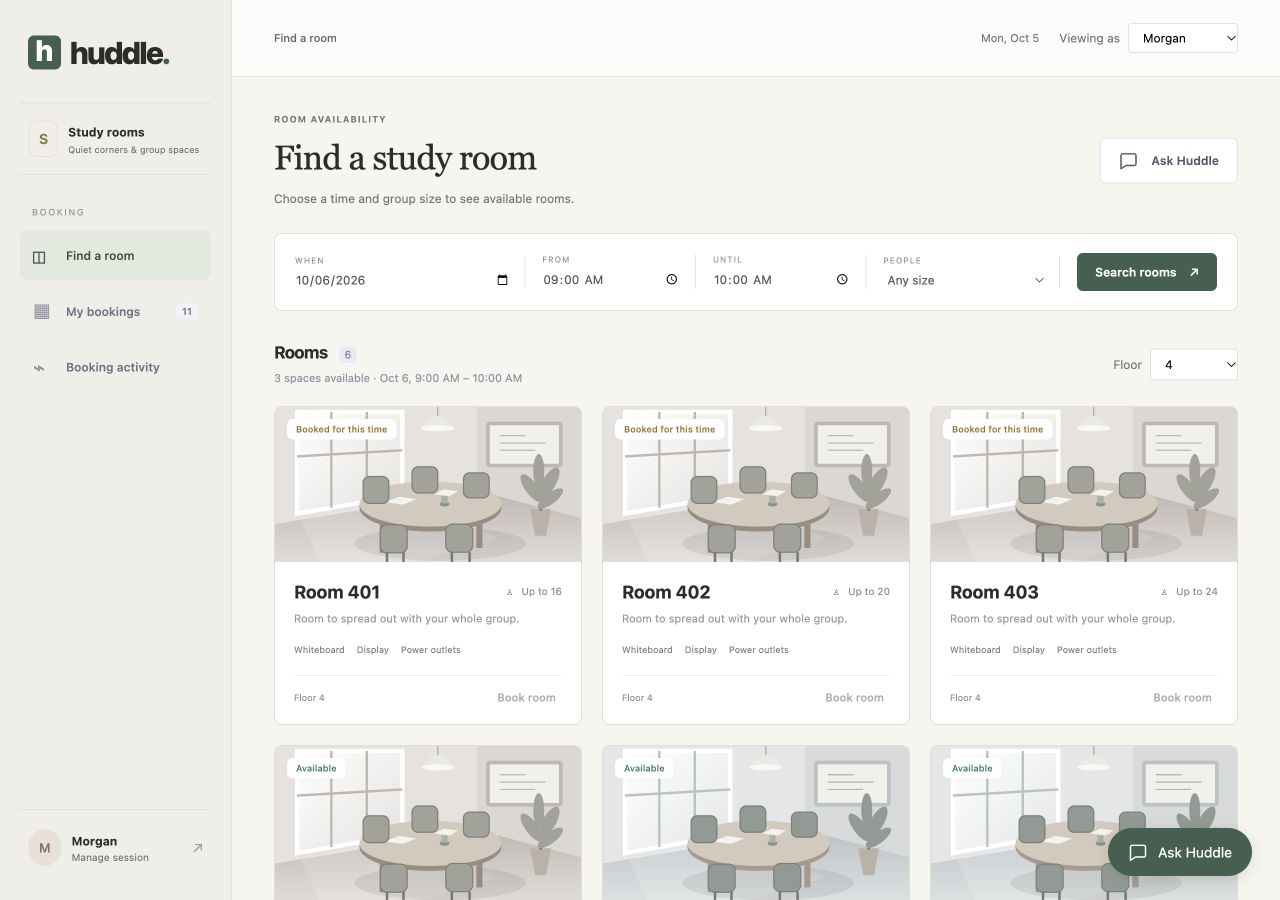
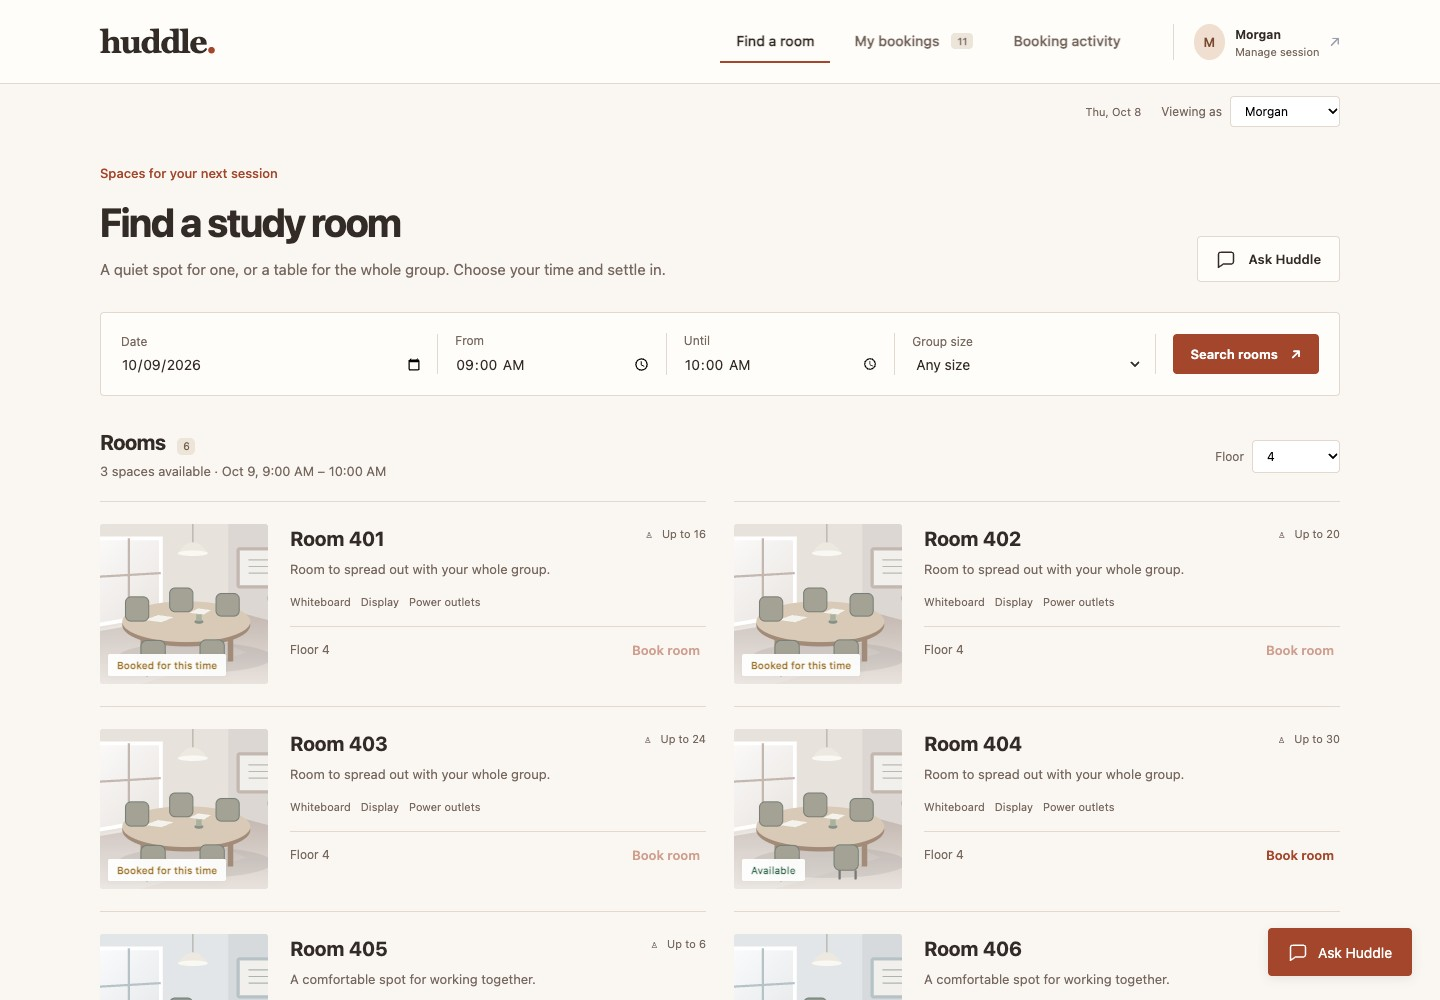
Redesign Huddle as a warm room directory and refresh UI walkthrough

diff --git a/app/static/styles.css b/app/static/styles.css
@@ -1571,3 +1571,29 @@ h1 { font-family: Georgia, serif; font-weight: 500; font-size: 34px; letter-spac
 .booking-technical p { line-height: 1.6; margin: 10px 0; }
 #calendar-details { margin-top: 24px; }
 #calendar-metrics { margin-top: 16px; grid-template-columns: repeat(2, minmax(0, 1fr)); }
+
+/* Room directory: a horizontal campus desk and compact, illustrated listings. */
+:root { --bg:#faf7f2; --ink:#332b26; --muted:#77685f; --purple:#a3462c; --line:#e2d8cd; --green:#386c50; }
+body { font-family: -apple-system, BlinkMacSystemFont, "Segoe UI", sans-serif; }
+h1,h2,h3,.brand { font-family: inherit; }
+h1 { font-size:40px; font-weight:700; letter-spacing:-1.6px; }
+.sidebar { position:static; width:100%; min-height:84px; flex-direction:row; align-items:center; gap:36px; padding:16px max(24px,calc((100vw - 1240px)/2)); border:0; border-bottom:1px solid var(--line); background:#fffdf9; }
+.brand { font-family:Georgia,serif; font-size:32px; font-weight:700; padding:0; letter-spacing:-1.5px; }
+.brand-mark { display:none; }.brand-dot { color:var(--purple); }
+.workspace,.nav-label { display:none; }
+.sidebar nav { display:flex; gap:8px; margin-left:auto; }
+.nav { width:auto; margin:0; padding:12px 16px; border-radius:0; font-size:14px; color:var(--muted); border-bottom:2px solid transparent; }
+.nav>span { display:none; }.nav.active { background:none; color:var(--ink); border-color:var(--purple); }.nav:hover { background:#f6efe5; }
+.sidebar-bottom { margin:0; }.profile { padding:0 0 0 20px; border:0; border-left:1px solid var(--line); }.profile>span:first-child { padding:10px; background:#f0dfd0; color:#794a30; }.profile small { font-size:11px; }
+main { margin-left:0; }.topbar { height:55px; padding:0 max(24px,calc((100vw - 1240px)/2)); background:var(--bg); border:0; }.breadcrumb { display:none; }.top-actions { margin-left:auto; }
+.content { max-width:1288px; padding:24px 24px 0; }.page-heading { margin-bottom:30px; align-items:flex-end; }.page-heading p:not(.eyebrow) { font-size:15px; max-width:590px; }.eyebrow { font-size:13px; font-weight:500; letter-spacing:0; text-transform:none; color:var(--purple); margin-bottom:12px; }
+.button { font-size:13px; border-radius:4px; padding:12px 18px; }.button.primary,.chat-launcher { background:var(--purple); }.primary:hover { background:#843721; }.secondary { border-color:var(--line); color:var(--ink); background:#fffdf9; }
+.search-bar { border:1px solid var(--line); border-radius:4px; background:#fffdf9; padding:20px; margin-bottom:34px; box-shadow:none; }.search-bar label>span { font-size:12px; letter-spacing:0; color:var(--muted); }.search-bar input,.search-bar select { font-size:14px; color:var(--ink); }
+.section-heading h2 { font-size:21px; }.section-heading h2 span { background:#eee5da; color:#75624e; }.section-heading p { font-size:13px; color:var(--muted); }
+.room-grid { grid-template-columns:repeat(2,minmax(0,1fr)); gap:0 28px; }.room-card { display:grid; grid-template-columns:168px minmax(0,1fr); padding:22px 0; border:0; border-top:1px solid var(--line); border-radius:0; background:transparent; overflow:visible; }.room-card:hover { transform:none; box-shadow:none; }.room-image { height:160px; border-radius:3px; background:#ede3d6; }.room-image img { filter:saturate(.8); }.room-image .badge { top:auto; bottom:8px; left:8px; font-size:10px; border-radius:2px; }.room-body { padding:3px 0 0 22px; }.room-title { align-items:start; gap:8px; }.room-title h3 { font-size:20px; }.room-title span { font-size:11px; color:var(--muted); }.room-description { font-size:13px; color:var(--muted); margin:9px 0 14px; }.room-features { font-size:11px; color:var(--muted); gap:10px; margin-bottom:18px; flex-wrap:wrap; }.room-bottom { border-color:var(--line); font-size:12px; color:var(--muted); }.room-bottom button { color:var(--purple); font-size:13px; }
+.chat-launcher { border-radius:4px; box-shadow:0 3px 10px #332b2618; }.chat-drawer { border-radius:6px; border-color:var(--line); background:#fffdf9; }.chat-drawer .message.user { background:#f3e5d9; }.proposal-card { background:#f8eee4; border-color:var(--line); }.nav em { background:#eee5da; }.booking-card,.panel,.metric { border-radius:4px; }.tabs .active { color:var(--purple); border-color:var(--purple); }
+button:focus-visible,a:focus-visible { outline-color:var(--purple); }input:focus,select:focus,textarea:focus { box-shadow:0 0 0 3px #a3462c18; }
+@media(max-width:900px) { .sidebar { gap:15px; flex-wrap:wrap; padding:18px 24px 0; }.sidebar nav { order:3; width:100%; margin:0; }.sidebar-bottom { margin-left:auto; }.room-grid { grid-template-columns:1fr; }.room-card { grid-template-columns:190px minmax(0,1fr); }.room-image { height:155px; } }
+@media(max-width:520px) { .sidebar { padding:16px 18px 0; }.brand { font-size:28px; }.profile { border:0; padding:0; }.profile>span:last-child,.profile small { display:none; }.nav { font-size:12px; padding:13px 9px; }.topbar { padding:12px 18px; height:auto; }.local-time { display:none; }.content { padding:20px 18px 0; }h1 { font-size:32px; }.page-heading { align-items:start; }.page-heading p:not(.eyebrow) { font-size:14px; }.page-heading>.button { padding:9px; font-size:11px; }.search-bar { padding:15px; gap:15px; }.room-card { grid-template-columns:108px minmax(0,1fr); padding:20px 0; }.room-image { height:153px; }.room-body { padding-left:14px; }.room-title { flex-direction:column; gap:5px; }.room-title h3 { font-size:18px; }.room-description { font-size:12px; margin:7px 0 10px; }.room-features { gap:6px; font-size:10px; margin-bottom:10px; }.room-bottom { font-size:10px; }.room-bottom button { font-size:12px; }.room-image .badge { font-size:9px; left:4px; bottom:5px; padding:5px; max-width:100px; white-space:normal; }.chat-launcher { right:18px; bottom:18px; } }
+/* Keep the guided request controls available in the mobile assistant. */
+.chat-drawer .assistant-notes > .note-card { display:block; }

diff --git a/app/static/index.html b/app/static/index.html
@@ -21,7 +21,7 @@
           <b>Study rooms</b><small>Quiet corners & group spaces</small>
         </div>
       </div>
-      <span class="nav-label">BOOKING</span>
+
       <nav>
         <button class="nav active" data-page="discover">
           <span>◫</span> Find a room</button
@@ -55,10 +55,10 @@
         <section class="page" id="discover">
           <div class="page-heading">
             <div>
-              <p class="eyebrow">ROOM AVAILABILITY</p>
+              <p class="eyebrow">Spaces for your next session</p>
               <h1 id="greeting">Find a study room</h1>
               <p>
-                Choose a time and group size to see available rooms.
+                A quiet spot for one, or a table for the whole group. Choose your time and settle in.
               </p>
             </div>
             <button class="button secondary" id="ask-assistant">
@@ -67,24 +67,24 @@
           </div>
           <form id="search-form" class="search-bar">
             <label
-              ><span>WHEN</span
+              ><span>Date</span
               ><input id="search-date" type="date" required /></label
             ><label
-              ><span>FROM</span
+              ><span>From</span
               ><input
                 id="search-start"
                 type="time"
                 value="09:00"
                 required /></label
             ><label
-              ><span>UNTIL</span
+              ><span>Until</span
               ><input
                 id="search-end"
                 type="time"
                 value="10:00"
                 required /></label
             ><label
-              ><span>PEOPLE</span
+              ><span>Group size</span
               ><select id="search-people">
                 <option value="1">Any size</option>
                 <option value="2">2 people</option>

diff --git a/docs/ui.md b/docs/ui.md
@@ -1,8 +1,9 @@
 # Interface decisions
 
 The room directory starts with date, time, group size, and a floor filter. Room
-numbers identify spaces across four floors. A warm neutral palette, muted green
-controls, and a simple serif page title give the interface a quieter character.
+numbers identify spaces across four floors. Warm paper backgrounds, rust-colored controls, and compact illustrated room
+listings give the directory its own character. A horizontal navigation bar replaces
+the dashboard sidebar; clear sans-serif headings keep the booking form practical.
 Local room illustrations describe fictional spaces rather than claim photographs
 of a real library.
 
@@ -34,4 +35,4 @@ Floor filters also update the count of available rooms.
 
 Discovery and the chat drawer were checked at 390px with no horizontal overflow.
 Desktop discovery, approval, booking tabs and profile switching were checked at
-1280px. Screenshots show the running application and synthetic sample data.
+1440px. Screenshots show the running application and synthetic sample data.

diff --git a/README.md b/README.md
@@ -6,7 +6,11 @@ checkpoints and prevents overlapping bookings; a separate worker synchronizes a
 simulated calendar. Rooms and users are fictional. There is no NYU integration,
 scraping, or public deployment requirement.
 
-![Huddle room discovery](docs/screenshots/rooms.jpg)
+![Huddle room directory with compact listings and top navigation](docs/screenshots/rooms.jpg)
+
+The room directory puts date, time, group size, and floor selection above compact
+illustrated listings. Top navigation keeps rooms, reservations, and activity
+within reach; the booking assistant opens alongside the current task.
 
 ## What you can do
 
@@ -237,7 +241,7 @@ view; they include successful and failed update states rather than only empty pa
 </details>
 <details><summary>Assistant confirms the booked room</summary>
 
-![Confirmed Room 306 booking](docs/screenshots/chat-confirmed.jpg)
+![Assistant confirms the approved room booking](docs/screenshots/chat-confirmed.jpg)
 
 ![Conflicting reservation with alternatives](docs/screenshots/chat-conflict.jpg)
 
